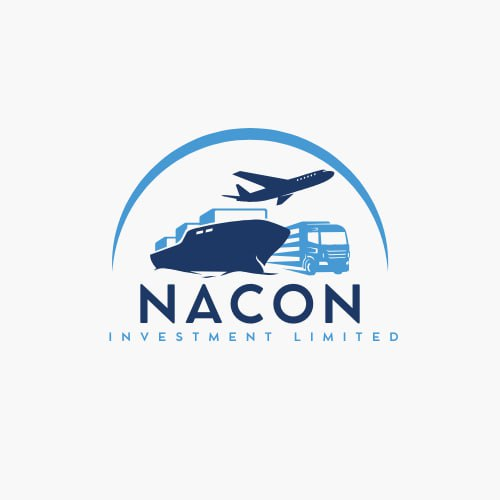
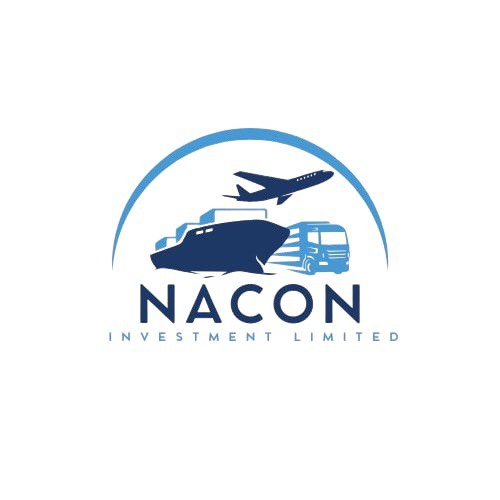
New

diff --git a/src/components/Navbar.jsx b/src/components/Navbar.jsx
@@ -1,12 +1,14 @@
 import { useState } from "react";
 import { FaBars, FaTimes } from "react-icons/fa";
-import NaconLogo from "../assets/Nacon.jpg";
-import Services from "../components/Services"
+import NaconLogo from "../assets/Nacon.png";
+import Services from "../components/Services";
+import { FaChevronDown } from "react-icons/fa";
 
 const Links = [
+  { name: "Home", url: "#" },
   { name: "About Us", url: "#" },
   { name: "Services", url: "#" },
-  { name: "Tracking", url: "#" },
+  { name: "Cargo Status", url: "#" },
 ];
 
 export default function Navbar() {
@@ -15,31 +17,35 @@ export default function Navbar() {
   const [mobileDropdownOpen, setMobileDropdownOpen] = useState(false);
 
   return (
-    <nav className="min-w-full h-24 flex items-center  text-[var(--Primary)] px-4 lg:px-20 fixed top-0 z-50 justify-between lg:justify-around">
-      
+    <nav className="min-w-full h-24 flex items-center px-4 lg:px-20 fixed top-0 z-50 justify-between xl:justify-around">
       <div className="lg:text-2xl tracking-wider font-extrabold cursor-pointer flex items-center gap-4">
-        <img src={NaconLogo} className="size-20 lg:size-24" />
-        <h1 className="hidden lg:flex">Nacon Investment Limited</h1>
+        <img src={NaconLogo} className="size-32" />
+        <h1 className="hidden lg:flex uppercase text-[var(--Accent)] font-extrabold">Nacon Investment</h1>
       </div>
 
       <div className="xl:flex gap-24 hidden">
         {Links.map((Link) => (
           <ul key={Link.name} className="relative">
             <dl
-              className="text-lg cursor-pointer hover:scale-110 duration-300 delay-[.5ms] hover:font-semibold"
-              onMouseEnter={() => Link.name === "Services" && setShowDropdown(true)}
-              onMouseLeave={() => Link.name === "Services" && setShowDropdown(false)}
+              className="text-lg cursor-pointer items-center flex gap-4 font-semibold text-[var(--Accent)] duration-500 delay-[2.5ms]"
+              onMouseEnter={() =>
+                Link.name === "Services" && setShowDropdown(true)
+              }
+              onMouseLeave={() =>
+                Link.name === "Services" && setShowDropdown(false)
+              }
             >
-              <a>{Link.name}</a>
-
+              <a className="hover:opacity-60">{Link.name}</a>
+              {Link.name === "Services" && (
+                <FaChevronDown className="ml-1 inline-block" />
+              )}
               {Link.name === "Services" && showDropdown && (
-                <div className="absolute top-8 left-0 bg-[var(--Secondary)] text-black shadow-lg p-4 w-52 z-50">
-                  <ul className="space-y-4 text-sm">
+                <div className="absolute top-8 left-0 bg-[var(--Secondary)] text-[var(--Accent)] w-72 z-50">
+                  <ul className="text-sm flex flex-col">
                     {Services.map((item) => (
-                      <li key={item.name} className=" hover:scale-105">
+                      <li key={item.name} className=" hover:bg-[var(--Accent)] hover:text-[var(--Secondary)] p-4">
                         <a
                           href={item.url}
-                          className="hover:text-[var(--Accent)] transition-colors"
                         >
                           {item.name}
                         </a>
@@ -53,22 +59,25 @@ export default function Navbar() {
         ))}
       </div>
 
-      <div className="xl:hidden z-50" onClick={() => setMobileMenuOpen(!mobileMenuOpen)}>
+      <div
+        className="xl:hidden z-50"
+        onClick={() => setMobileMenuOpen(!mobileMenuOpen)}
+      >
         {mobileMenuOpen ? (
-          <FaTimes className="text-3xl cursor-pointer text-[var(--Primary)]" />
+          <FaTimes className="text-3xl cursor-pointer text-[var(--Default)] invert-25" />
         ) : (
-          <FaBars className="text-3xl cursor-pointer text-[var(--Primary)]" />
+          <FaBars className="text-3xl cursor-pointer text-[var(--Default)] invert-25" />
         )}
       </div>
 
       <div
-        className={`xl:hidden absolute top-24 left-0 w-full bg-[var(--Primary)] text-[var(--Accent)] font-semibold hover:font-bold px-6 py-4 transition-all duration-500 ${
+        className={`xl:hidden absolute top-24 left-0 w-full bg-[var(--NavSecondary)] text-[var(--Accent)] font-semibold hover:font-bold px-6 py-4 transition-all duration-500 ${
           mobileMenuOpen ? "block" : "hidden"
         }`}
       >
-        <ul className="space-y-6 text-lg">
+        <ul className="flex flex-col text-lg">
           {Links.map((Link) => (
-            <li key={Link.name}>
+            <li key={Link.name} className="p-3 hover:opacity-80 cursor-pointer">
               {Link.name === "Services" ? (
                 <div>
                   <div
@@ -76,14 +85,18 @@ export default function Navbar() {
                     className="flex justify-between items-center cursor-pointer"
                   >
                     <span>Services</span>
-                    <span>{mobileDropdownOpen ? "−" : "+"}</span>
+                    <span>
+                      <FaChevronDown className={mobileDropdownOpen ? "rotate-180" : "rotate-0"} />
+                    </span>
                   </div>
 
                   {mobileDropdownOpen && (
-                    <ul className="pl-4 mt-2 space-y-2 text-sm text-[var(--Accent)]">
+                    <ul className="mt-2 text-sm text-[var(--Accent)] flex flex-col">
                       {Services.map((item) => (
-                        <li key={item.name}>
-                          <a href={item.url} className="hover:text-[var-(--Accent)]">
+                        <li key={item.name} className="p-3 hover:text-[var(--Secondary)] hover:bg-[var(--Accent)] cursor-pointer">
+                          <a
+                            href={item.url}
+                          >
                             {item.name}
                           </a>
                         </li>

diff --git a/src/components/ServiceSection.jsx b/src/components/ServiceSection.jsx
@@ -1,42 +1,46 @@
 import Button from "../components/Button";
-import Services from "../components/Services"
+import Services from "../components/Services";
 
 export default function ServiceSection() {
   return (
-    <section className="w-full my-20 xl:my-36 bg-inherit gap-10 flex flex-col">
-      <div className="xl:w-1/2 m-4 lg:m-12 flex flex-col gap-6">
-        <h1 className="text-2xl lg:text-5xl mt-2 font-bold ml-2">
-          What We Can Do For You.
-        </h1>
-        <p className="text-md lg:text-2xl tracking-wide">
-          From the manufacturer to consumers, from one nation to the other. Our
-          years of experience in logistics has empowered us to ensure that you
-          receive the best. We offer,
-        </p>
-      </div>
-      <div className="flex lg:flex-row gap-4 lg:gap-8 justify-center mx-4 lg:mx-12 flex-col">
-        {Services.map((Service) => (
-          <div
-            key={Service.name}
-            className="flex-1 border h-[32.5rem] group hover:grayscale-0 grayscale-25 overflow-hidden hover:shadow-xl"
-          >
-            <img
-              src={Service.image}
-              className="h-1/2 w-full group-hover:opacity-90 duration-700 delay-[.0125ms] transition-transform group-hover:scale-110"
-              alt={Service.alt}
-            />
-            <div className="h-2/5 w-full px-4 py-5 flex flex-col gap-3 items-start">
-              <h1 className="text-2xl lg:text-3xl font-bold">{Service.name}</h1>
-              <p className="text-md lg:text-xl tracking-wide">
-                {Service.about}
-              </p>
-              <Button
-                text="Learn More"
-                class="p-2 text-md cursor-pointer border-b-2 hover:font-bold duration-700 delay-[2.5ms]"
+    <section className="w-full my-20 xl:my-24 bg-inherit gap-10 flex flex-col items-center">
+      <div className="flex flex-col xl:w-5/6 mx-auto items-center">
+        <div className="md:w-5/6 xl:w-3/4 m-4 sm:mx-8 sm:m-12 flex flex-col gap-6 items-start">
+          <h1 className="text-2xl md:text-5xl mt-2 font-bold ml-2">
+            Services.
+          </h1>
+          <p className="text-md md:text-2xl tracking-wide">
+            From one nation to the other. Our years of experience in the
+            maritime industry has empowered us to ensure that you receive the
+            best. The services we offer;
+          </p>
+        </div>
+        <div className="flex md:flex-row gap-4 lg:gap-16 justify-center mx-2 sm:mx-16 md:mx-4 lg:mx-12 flex-col flex-wrap">
+          {Services.map((Service) => (
+            <div
+              key={Service.name}
+              className="flex-1 border group hover:grayscale-0 grayscale-25 overflow-hidden hover:shadow-xl w-auto md:min-w-[25rem] md:max-w-[27.5rem] lg:min-w-[25rem] lg:max-w-[27.5rem] h-[32rem]"
+            >
+              <img
+                src={Service.image}
+                className="h-72 lg:h-1/2 w-full group-hover:opacity-90 duration-700 delay-[.0125ms] transition-transform group-hover:scale-110"
+                alt={Service.alt}
               />
+              <div className="min-h-1/2 w-full px-4 py-5 flex flex-col gap-3 items-start">
+                <h1 className="text-2xl lg:text-3xl font-bold">
+                  {Service.name}
+                </h1>
+                <p className="text-md md:text-xl tracking-wide">
+                  {Service.about}
+                </p>
+                <Button
+                  text="Learn More"
+                  class="p-2 text-md cursor-pointer border-b-2 hover:font-bold duration-700 delay-[2.5ms] bottom-4 md:absolute"
+                />
+              </div>
             </div>
-          </div>
-        ))}
+          ))}
+        </div>
       </div>
     </section>
   );

diff --git a/src/components/AboutSection.jsx b/src/components/AboutSection.jsx
@@ -2,11 +2,11 @@ import Button from "./Button";
 
 export default function AboutSection() {
   return (
-    <section className="w-full">
-      <div className="grid grid-cols-1 xl:grid-cols-3 m-4 lg:my-24 lg:mx-12">
+    <section className="w-full flex justify-center">
+      <div className="grid grid-cols-1 xl:grid-cols-3 m-4 lg:my-16 lg:mx-12 w-11/12">
         <div className="flex flex-col px-4 py-8 gap-8 rounded-2xl items-start">
-          <h1 className="text-2xl lg:text-5xl mt-2 font-bold ml-2">About Us</h1>
-          <p className="text-md lg:text-2xl tracking-wide">
+          <h1 className="text-2xl md:text-5xl mt-2 font-bold ml-2">About Us</h1>
+          <p className="text-md md:text-2xl tracking-wide">
             Nacon Investment Limited is a world-class freight forwarding and
             logistics company with over 25 years of expertise in the maritime
             industry. Renowned for our reliability and excellence, we have
@@ -19,10 +19,10 @@ export default function AboutSection() {
           />
         </div>
         <div className="flex flex-col px-6 py-8 gap-8 items-start xl:border-x border-y xl:border-y-0">
-          <h1 className="text-2xl lg:text-5xl mt-2 font-bold ml-2">
+          <h1 className="text-2xl md:text-5xl mt-2 font-bold ml-2">
             Our Mission
           </h1>
-          <p className="text-md lg:text-2xl tracking-wide">
+          <p className="text-md md:text-2xl tracking-wide">
             We are committed to providing efficient and cost-effective freight
             solutions through unmatched industry expertise. With precision and
             integrity being at our core, ensuring that every shipment meets
@@ -30,10 +30,10 @@ export default function AboutSection() {
           </p>
         </div>
         <div className="flex flex-col px-4 py-8 gap-8 rounded-2xl items-start">
-          <h1 className="text-2xl lg:text-5xl mt-2 font-bold ml-2">
+          <h1 className="text-2xl md:text-5xl mt-2 font-bold ml-2">
             Our Vision
           </h1>
-          <p className="text-md lg:text-2xl tracking-wide">
+          <p className="text-md md:text-2xl tracking-wide">
             To lead the way in global freight forwarding by delivering seamless
             and innovative logistics solutions ensuring client satisfaction.
           </p>

diff --git a/src/index.css b/src/index.css
@@ -9,12 +9,10 @@
   --Secondary: #f2f0ec;
   --Accent: #011429;
   --Default: #030303;
-  --Background: #06060565;
-  --NavBackgroundTwo: #060605;
-  --NavBackground: #06060500;
-}
-nav{
-  background: linear-gradient(var(--NavBackgroundTwo), var(--NavBackground));
+  --Background: #06060554;
+  --NavSecondary: #ffffffe3;
+  --NavBackgroundTwo: #ffffff84;
+  --NavBackground: #ffffff00;
 }
 .header{
   background-image: url(../src/assets/Image-two.jpg);
@@ -25,5 +23,8 @@ nav{
   background-position: 0vh;
 }
 body{
-font-family: "Chakra Petch", sans-serif;
+font-family: "Chakra Petch", serif;
+}
+nav{
+  background: linear-gradient(var(--Primary), var(--NavSecondary), var(--NavBackgroundTwo), var(--NavBackground));
 }
